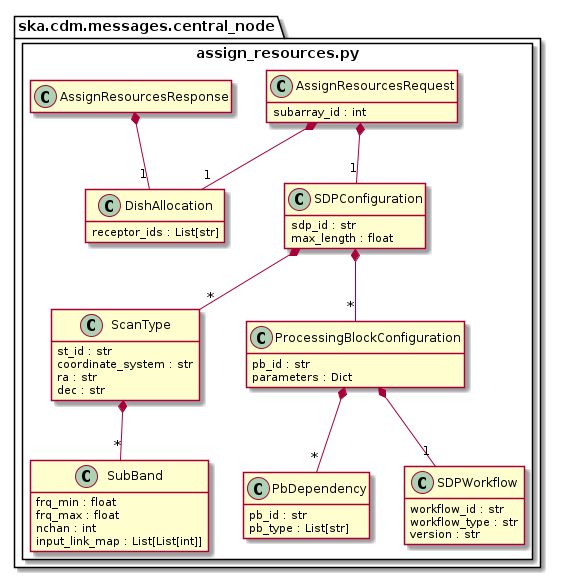
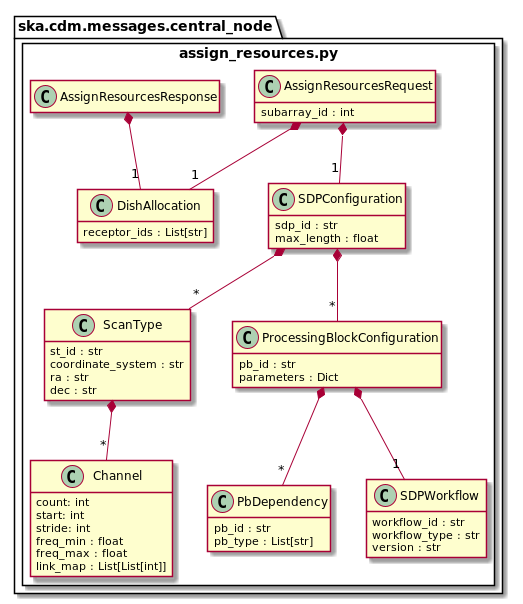
Add changes to AssignResources diagram

diff --git a/src/ska/cdm/schemas/central_node.py b/src/ska/cdm/schemas/central_node.py
@@ -106,7 +106,7 @@ class ScanTypeSchema(Schema):
 
         :param data: Marshmallow-provided dict containing parsed JSON values
         :param _: kwargs passed by Marshmallow
-        :return: ScanTypew object populated from data
+        :return: ScanType object populated from data
         """
         st_id = data['st_id']
         coordinate_system = data['coordinate_system']
